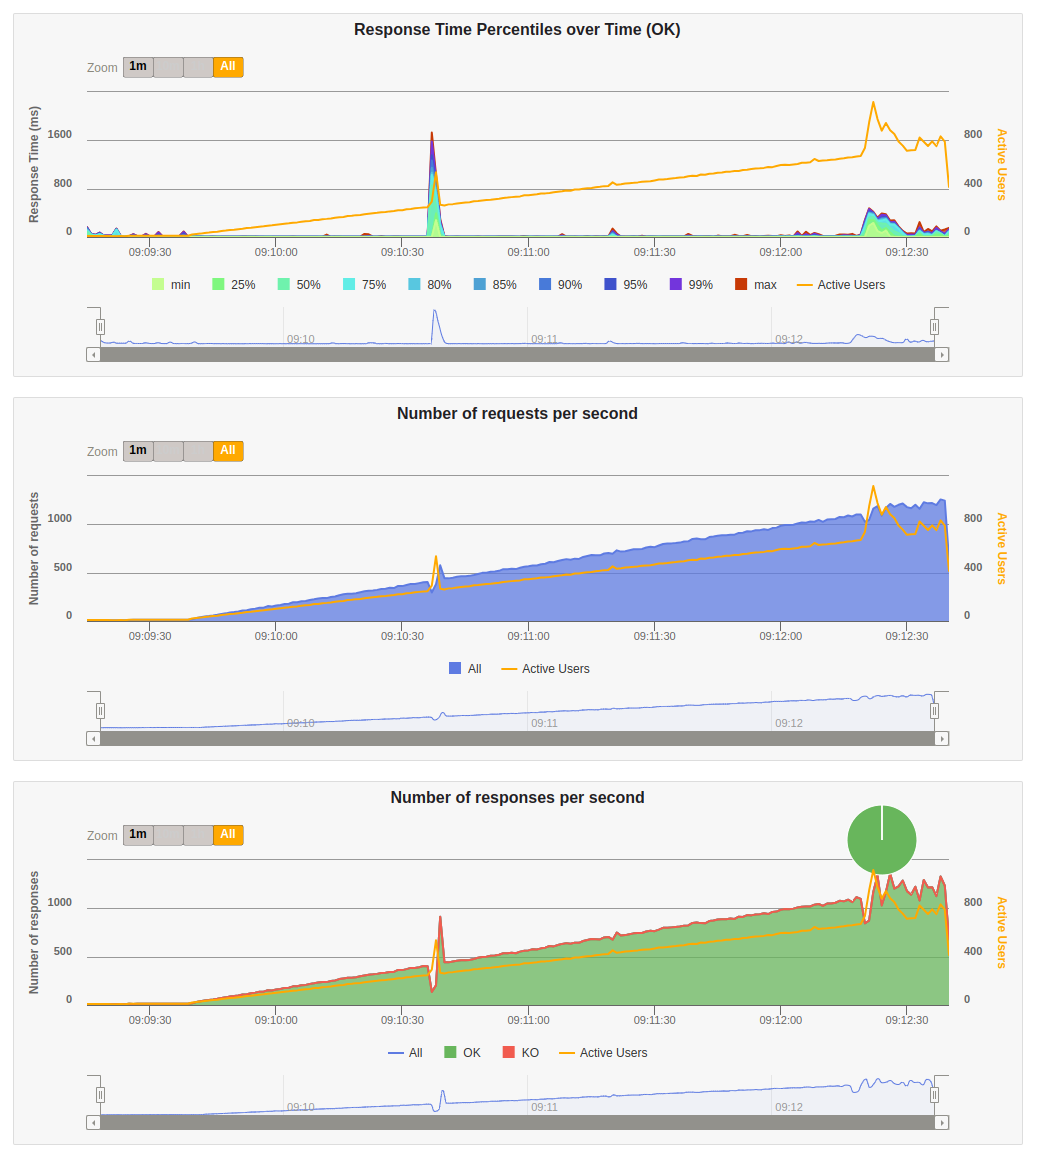
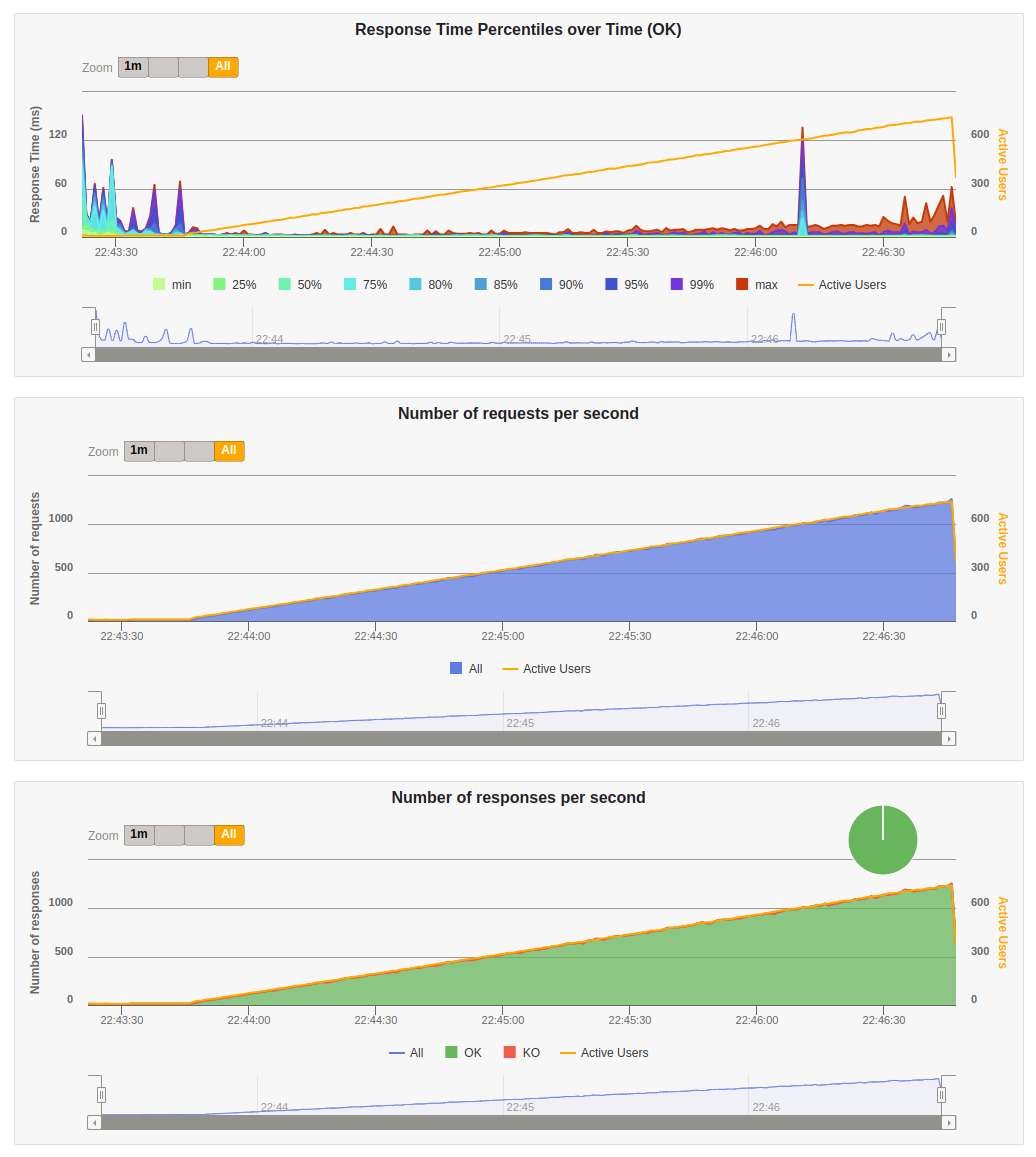
docs: add new results

diff --git a/README.md b/README.md
@@ -53,21 +53,21 @@ Generating reports...
 ---- Global Information --------------------------------------------------------
 > request count                                     114991 (OK=114991 KO=0     )
 > min response time                                      0 (OK=0      KO=-     )
-> max response time                                   1730 (OK=1730   KO=-     )
-> mean response time                                    26 (OK=26     KO=-     )
-> std deviation                                         82 (OK=82     KO=-     )
-> response time 50th percentile                          3 (OK=3      KO=-     )
-> response time 75th percentile                          4 (OK=4      KO=-     )
-> response time 95th percentile                        198 (OK=198    KO=-     )
-> response time 99th percentile                        358 (OK=358    KO=-     )
+> max response time                                    151 (OK=151    KO=-     )
+> mean response time                                     1 (OK=1      KO=-     )
+> std deviation                                          4 (OK=4      KO=-     )
+> response time 50th percentile                          1 (OK=1      KO=-     )
+> response time 75th percentile                          1 (OK=1      KO=-     )
+> response time 95th percentile                          2 (OK=2      KO=-     )
+> response time 99th percentile                          7 (OK=7      KO=-     )
 > mean requests/sec                                558.209 (OK=558.209 KO=-     )
 ---- Response Time Distribution ------------------------------------------------
-> t < 800 ms                                        114780 (100%)
-> 800 ms <= t < 1200 ms                                172 (  0%)
-> t >= 1200 ms                                          39 (  0%)
+> t < 800 ms                                        114991 (100%)
+> 800 ms <= t < 1200 ms                                  0 (  0%)
+> t >= 1200 ms                                           0 (  0%)
 > failed                                                 0 (  0%)
 ================================================================================
-A contagem de pessoas é: 46576
+A contagem de pessoas é: 46576                                                                                                       /
 ```
 
 #### Uma instância (sem nginx)
